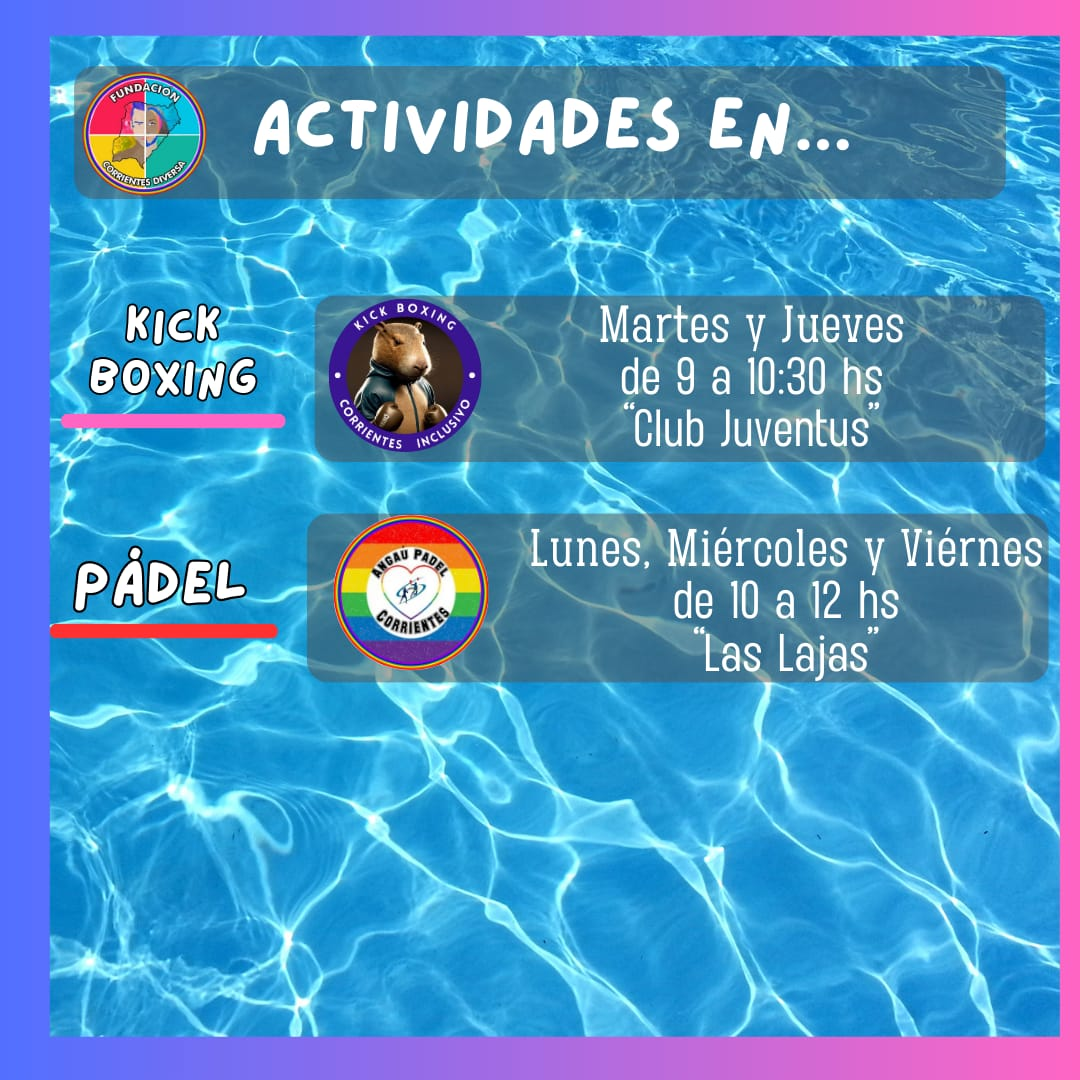
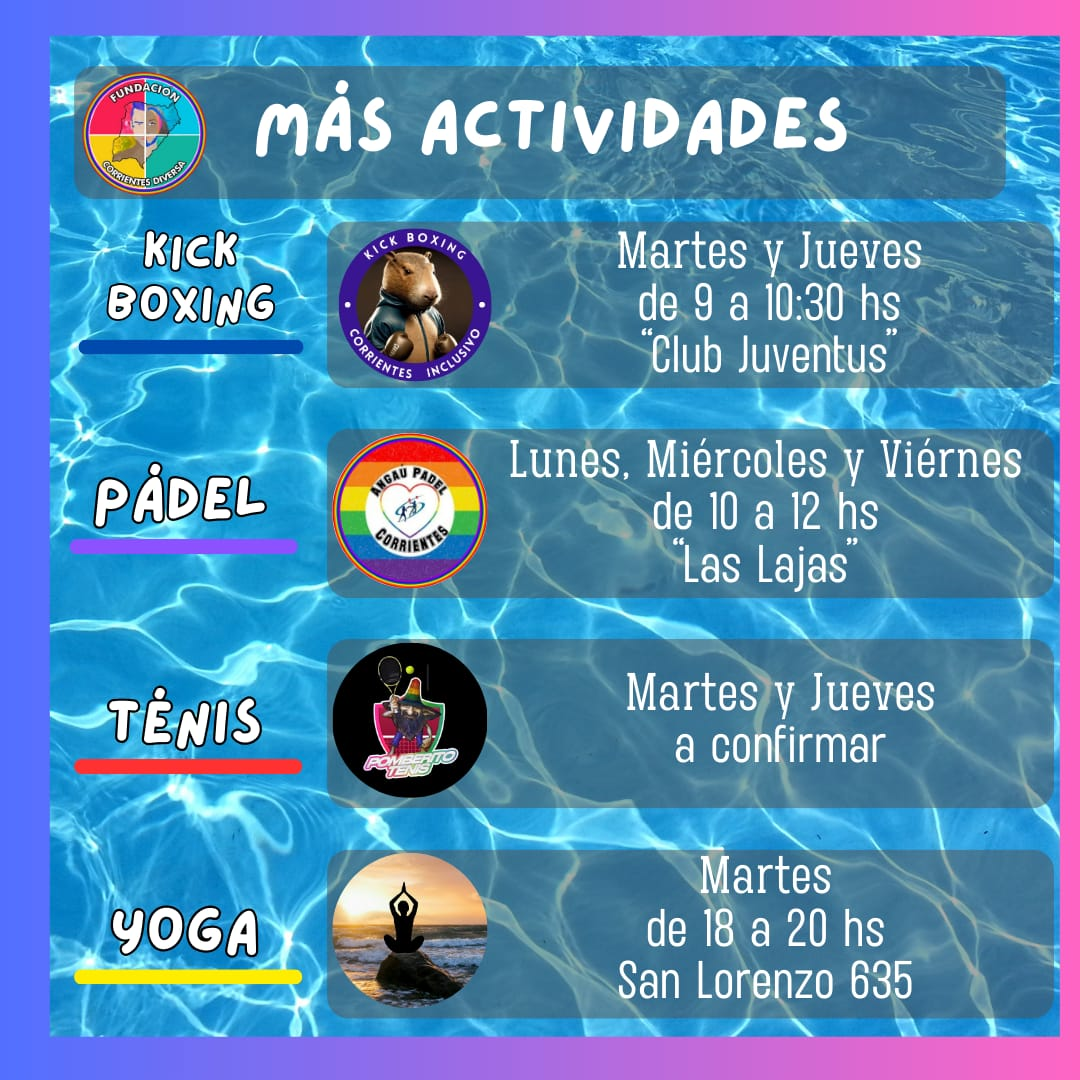
ultimas modificaciones

diff --git a/index.html b/index.html
@@ -184,7 +184,7 @@
     <div class="col">
         <div class="card">
             <div class="card-body  h5 bg-dark text-white"> Fútbol </div>
-            <div class="card-header h6"> Lunes, miercoles y viernes de 15 a 16 hs C.E.F Nº 1 </div>
+            <div class="card-header h6"> Lunes a viernes de 15 a 16 hs C.E.F Nº 1 </div>
             <div class="card-footer"><a href="https://maps.app.goo.gl/s9DqAdhpZmttauV99" target="_blank" rel="noopener noreferrer" class="btn btn-dark bi-geo-alt"></a></div>
         </div>
     </div>
@@ -194,7 +194,7 @@
     <div class="col">
         <div class="card">
             <div class="card-body  h5 bg-dark text-white"> Hockey </div>
-            <div class="card-header h6"> Lunes, miercoles viernes de  15 a 17 hs C.E.F Nº 1 </div>
+            <div class="card-header h6"> Lunes a viernes de  15 a 17 hs C.E.F Nº 1 </div>
             <div class="card-footer"><a href="https://maps.app.goo.gl/s9DqAdhpZmttauV99" target="_blank" rel="noopener noreferrer" class="btn btn-dark bi-geo-alt"></a></div>
         </div>
     </div>
@@ -276,6 +276,16 @@
             <div class="card-body  h5 bg-dark text-white"> Atletismo </div>
             <div class="card-header h6"> Miércoles y viernes de 17 a 18 hs C.E.F Nº 1 </div>
             <div class="card-footer"><a href="https://maps.app.goo.gl/s9DqAdhpZmttauV99" target="_blank" rel="noopener noreferrer" class="btn btn-dark bi-geo-alt"></a></div>
+        </div>
+    </div>
+</div>
+
+<div class="row m-2 text-center">
+    <div class="col">
+        <div class="card">
+            <div class="card-body  h5 bg-dark text-white"> Yoga </div>
+            <div class="card-header h6"> martes 18hs a 20 hs. San Lorenzo 635 </div>
+            <div class="card-footer"><a href="https://maps.app.goo.gl/vYonV3NULofQMo9YA" target="_blank" rel="noopener noreferrer" class="btn btn-dark bi-geo-alt"></a></div>
         </div>
     </div>
 </div>
